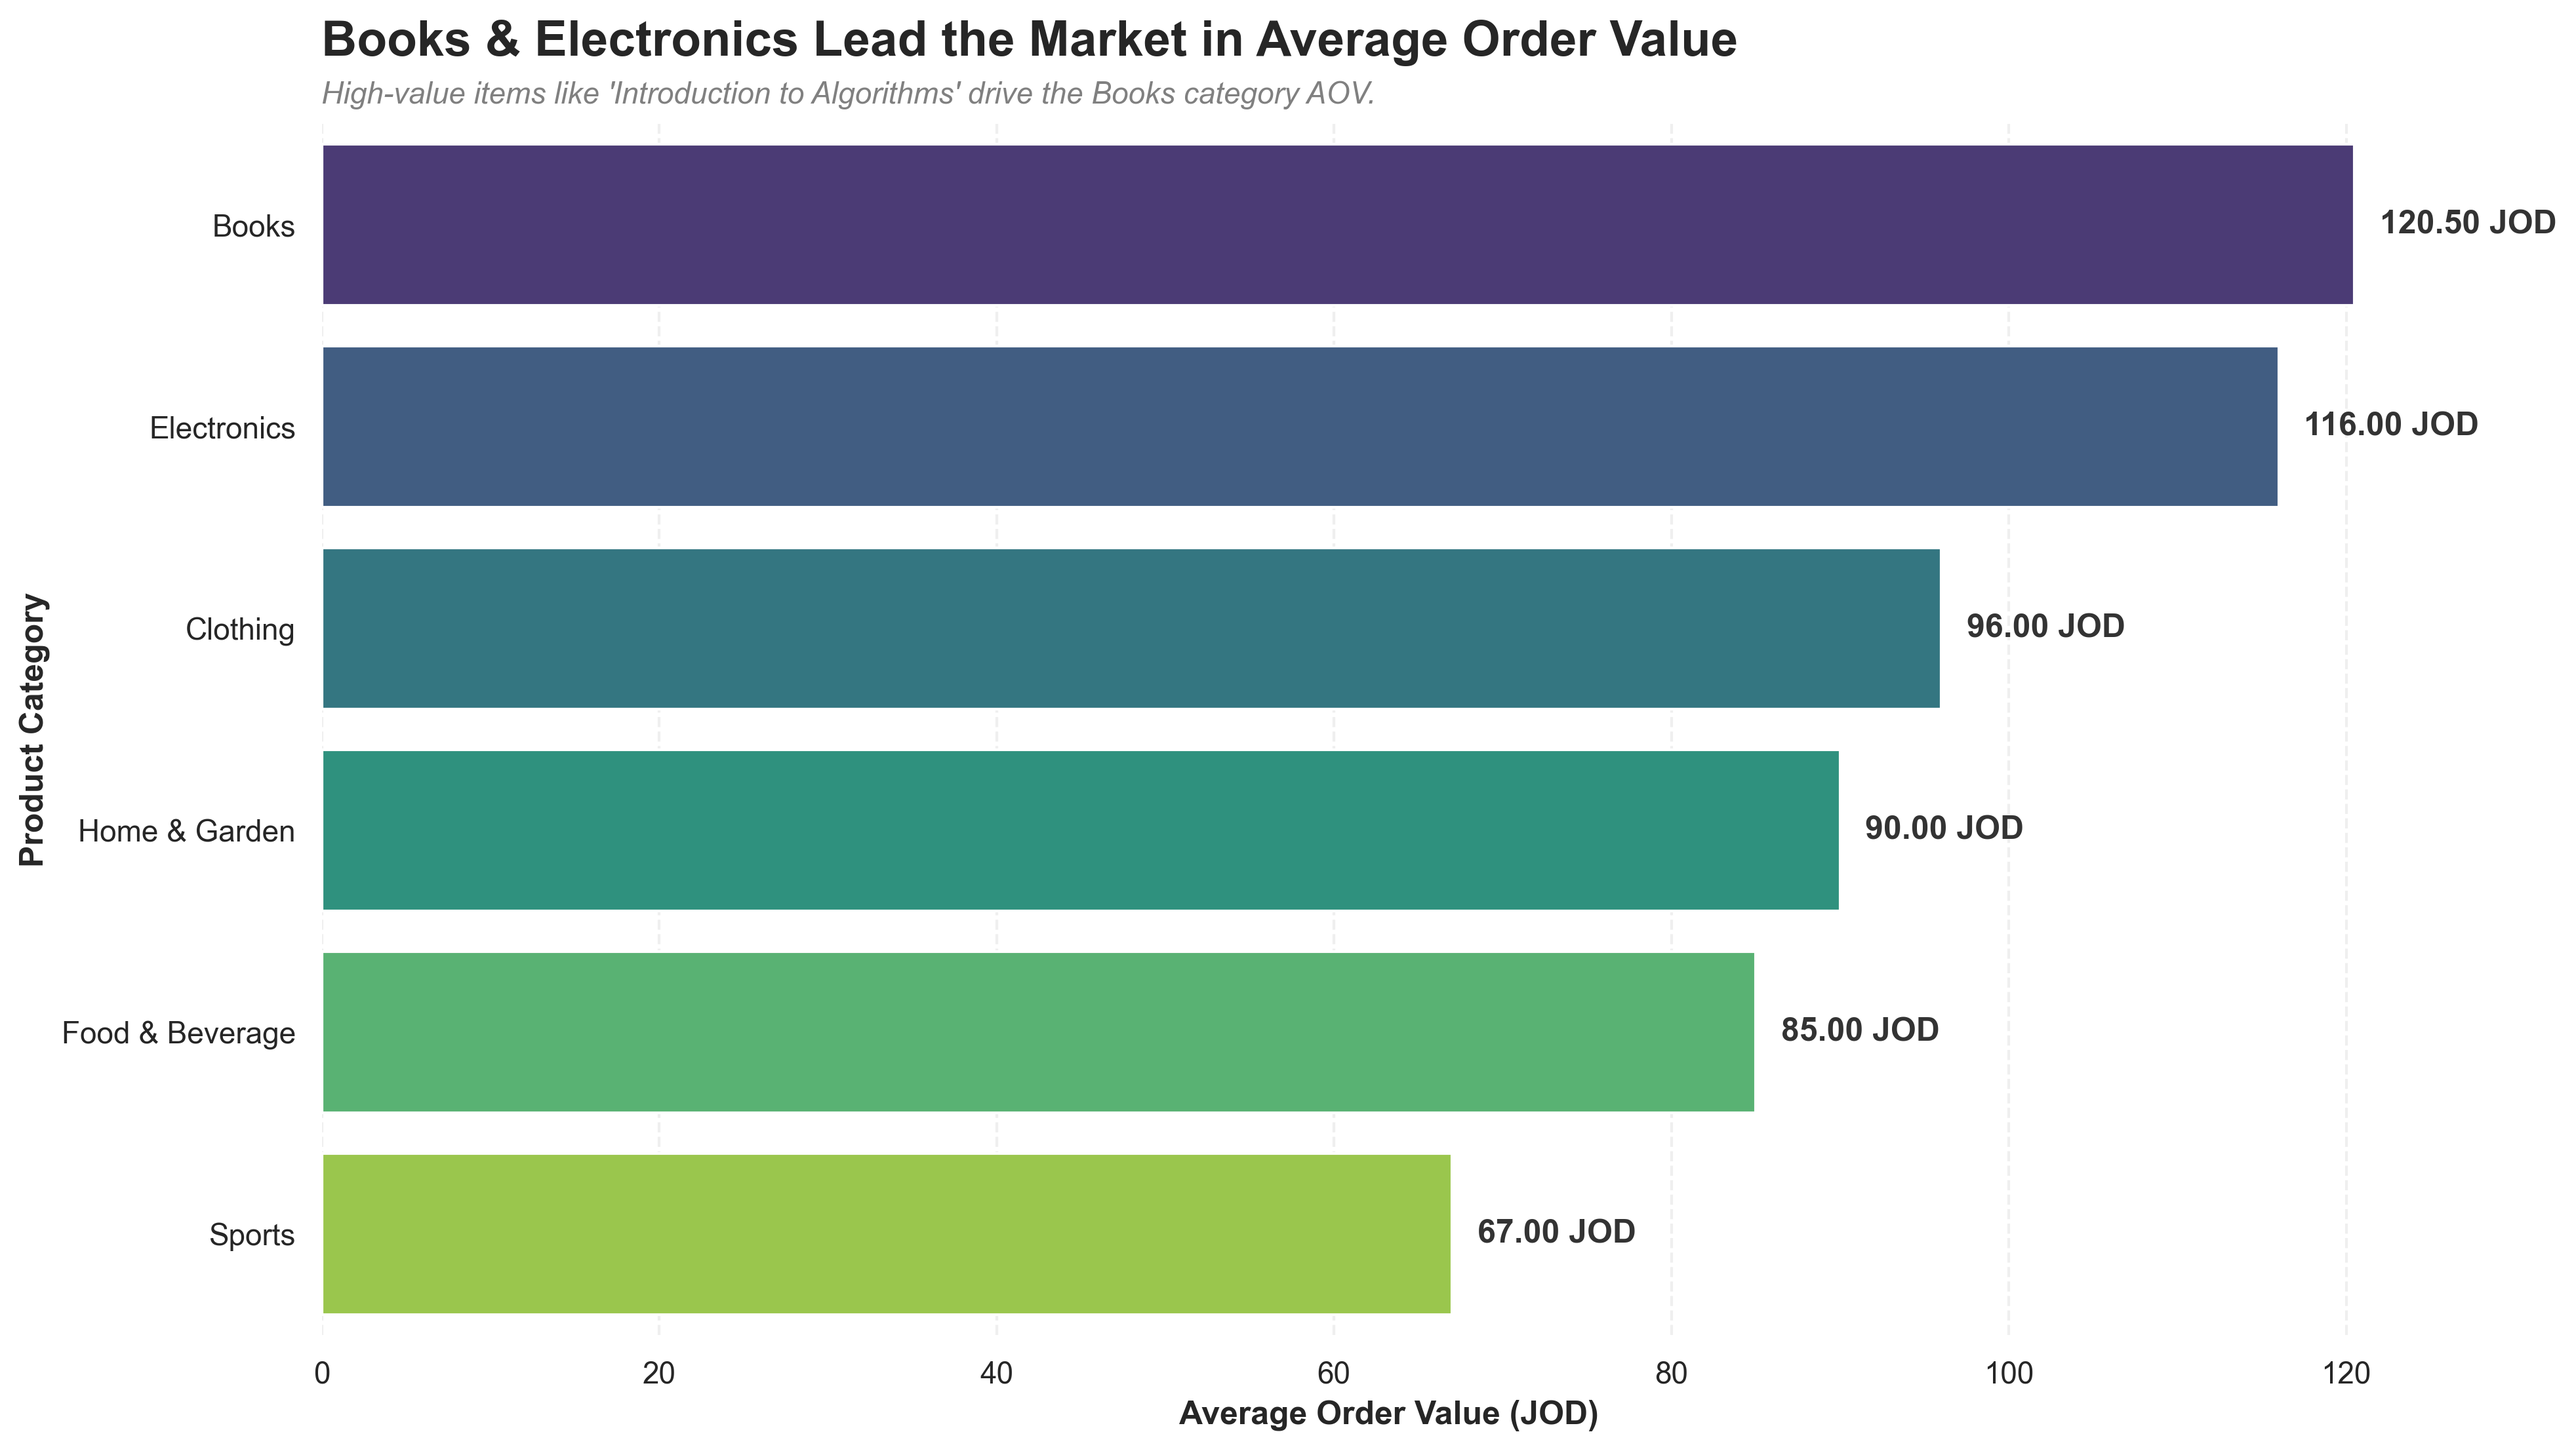
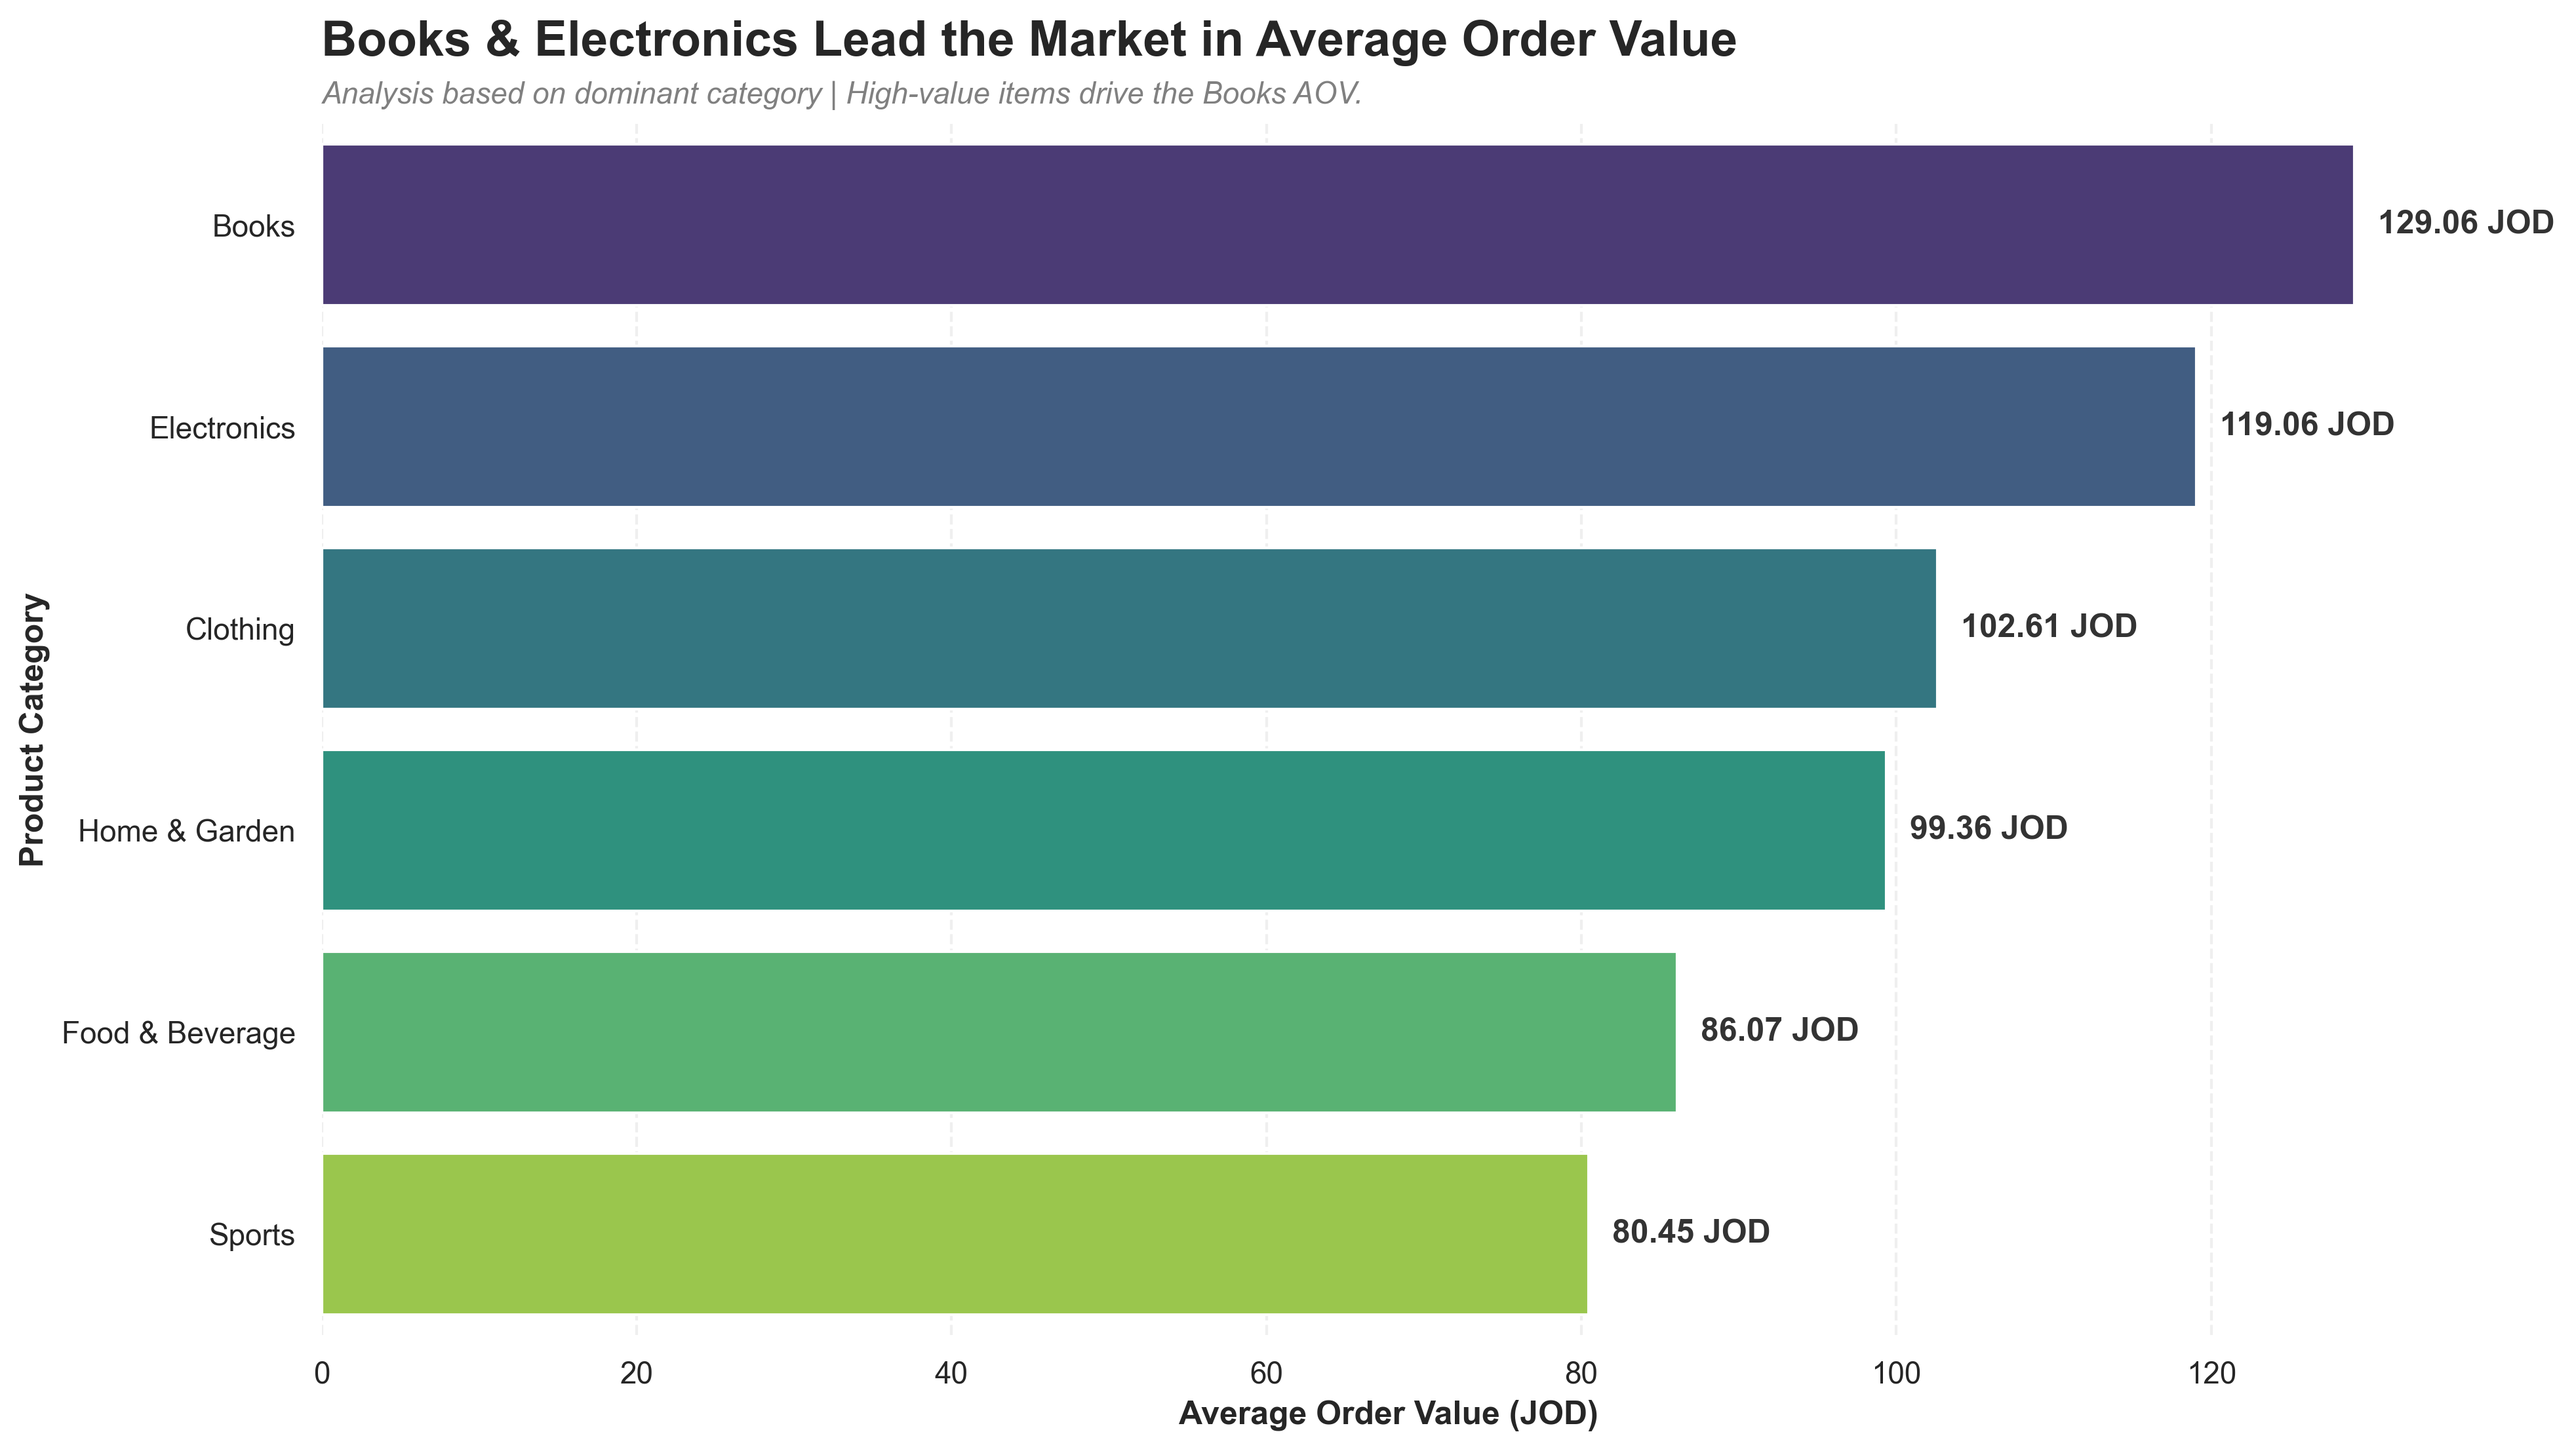
new update!

diff --git a/contributions/Jumana-ML/generate_chart.py b/contributions/Jumana-ML/generate_chart.py
@@ -2,50 +2,52 @@ import os
 import pandas as pd
 import seaborn as sns
 import matplotlib.pyplot as plt
+import matplotlib
 
-# 1. SETUP: Load the dataset
-# Make sure "amman_market_data.csv" is in the same folder as this script
-file_path = "amman_market_data.csv"
+# Force Matplotlib to use 'Agg' backend to save files without opening a popup window
+matplotlib.use('Agg')
 
-if not os.path.exists(file_path):
-    print(f"Error: The file '{file_path}' was not found.")
-else:
-    df = pd.read_csv(file_path)
-    df = df.copy()
+def generate_market_analysis_chart():
+    """
+    Main function to process sales data and generate a high-resolution 
+    Average Order Value (AOV) chart.
+    """
+    
+    # 1. PATH CONFIGURATION
+    # Using 'r' before the string to handle backslashes in Windows paths correctly
+    base_path = r"C:\Users\DELL\m4-s2-Jumana\contributions\Jumana-ML"
+    data_file = os.path.join(base_path, "amman_market_data.csv")
+    output_image = os.path.join(base_path, "market_analysis_high_res.png")
 
-    # 2. DATA INSPECTION: Quick look at the structure
-    print("--- Dataset Information ---")
-    df.info()
-    rows, cols = df.shape
-    print(f"\nDimensions: {rows} rows and {cols} columns.")
+    # Check if the CSV file exists at the specified path
+    if not os.path.exists(data_file):
+        print(f"Error: Could not find the file at: {data_file}")
+        return
 
-    # 3. DATA PROCESSING: Sorting for Dominant Category Logic
-    # We sort by Order ID, then by Line Total (Largest amount first)
-    # This ensures the most expensive item in every order appears at the top
+    # 2. DATA PROCESSING
+    # Load the dataset into a Pandas DataFrame
+    df = pd.read_csv(data_file)
+    
+    # Sort data by Order ID and Line Total (Descending) 
+    # This puts the most expensive item of each order at the top
     df = df.sort_values(by=['order_id', 'line_total'], ascending=[True, False])
     
-    # Calculate the total amount for each order (Sum of all items in the cart)
-    df['order_total'] = df.groupby('order_id')['line_total'].transform('sum')
-
-    # 4. AGGREGATION: Create an 'Orders' level dataframe
-    # 'line_total': sum (The full price the customer paid)
-    # 'category': 'first' (The category of the most expensive item in that order)
+    # Aggregate data: Sum the total money per order and pick the 'first' (dominant) category
     orders = df.groupby('order_id').agg({
         'line_total': 'sum',
         'category': 'first'
     }).reset_index()
 
-    # 5. ANALYSIS: Calculate Average Order Value (AOV) per Category
-    # We group by the dominant category and find the mean of the total order values
+    # Calculate the Average Order Value (AOV) for each category
     aov_data = orders.groupby('category')['line_total'].mean().sort_values(ascending=False)
 
-    # 6. PROFESSIONAL VISUALIZATION: Setting up the High-Res Chart
-    # 'white' style for a clean, corporate look
-    sns.set_theme(style="white") 
-    plt.figure(figsize=(14, 8), dpi=300) # 300 DPI for high-definition quality
+    # 3. VISUALIZATION SETUP
+    # Set a clean professional theme and high-definition resolution (300 DPI)
+    sns.set_theme(style="white")
+    plt.figure(figsize=(14, 8), dpi=300)
 
-    # Create the Bar Plot
-    # hue=index ensures every category gets a unique color without warnings
+    # Create the horizontal bar plot
+    # hue=index avoids warnings in newer Seaborn versions
     ax = sns.barplot(
         x=aov_data.values, 
         y=aov_data.index, 
@@ -54,36 +56,38 @@ else:
         legend=False
     )
 
-    # 7. DATA LABELS: Adding the exact JOD value at the end of each bar
-    # Using a manual loop for better understanding
-    row_counter = 0
-    for val in aov_data.values:
-        # Put text at (X = value + small gap, Y = current row index)
+    # 4. DATA LABELING (For beginners: using a manual counter)
+    row_index = 0
+    for value in aov_data.values:
+        # Place text: X position = value + 1.5 (gap), Y position = row number
         # .2f formats the number to 2 decimal places
-        ax.text(val + 1.5, row_counter, f'{val:.2f} JOD', 
+        ax.text(value + 1.5, row_index, f'{value:.2f} JOD', 
                 va='center', fontweight='bold', color='#333333')
-        row_counter = row_counter + 1
+        row_index = row_index + 1
 
-    # 8. TYPOGRAPHY: Titles and Subtitles
+    # 5. CHART TYPOGRAPHY & TITLES
     plt.title("Books & Electronics Lead the Market in Average Order Value", 
-              fontsize=18, fontweight='bold', pad=25, loc='left', color='#1a1a1a')
+              fontsize=18, fontweight='bold', pad=25, loc='left')
 
-    # Adding an analytical subtitle explaining our "Dominant Category" finding
-    plt.text(0, -0.6, "Analysis based on dominant category per transaction | High-value academic books drive 'Books' AOV.", 
+    # Add subtitle explaining the "Dominant Category" logic
+    plt.text(0, -0.6, "Analysis based on dominant category | High-value items drive the Books AOV.", 
              fontsize=11, color='gray', style='italic')
 
     plt.xlabel("Average Order Value (JOD)", fontsize=12, fontweight='semibold')
     plt.ylabel("Product Category", fontsize=12, fontweight='semibold')
 
-    # 9. FINAL POLISH: Removing unnecessary borders (Chart Junk)
+    # 6. FINAL CLEANUP
+    # Remove chart borders for a modern look
     sns.despine(left=True, bottom=True)
-    ax.grid(axis='x', linestyle='--', alpha=0.3) # Subtle vertical grid lines
+    ax.grid(axis='x', linestyle='--', alpha=0.3) # Add light vertical grid lines
 
-    # 10. SAVE & EXPORT: Saving the file in HD
-    output_filename = 'market_analysis_professional.png'
-    plt.savefig(output_filename, dpi=300, bbox_inches='tight')
+    # 7. EXPORTING
+    # Save the file to the specific project folder and close the plot to free memory
+    plt.savefig(output_image, dpi=300, bbox_inches='tight')
+    plt.close() 
     
-    print(f"\nDone! Your professional chart is saved as '{output_filename}'")
-    
-    # Display the result on screen
-    plt.show()
+    print(f"Success! The professional chart has been saved to:\n{output_image}")
+
+# Execute the function
+if __name__ == "__main__":
+    generate_market_analysis_chart()
